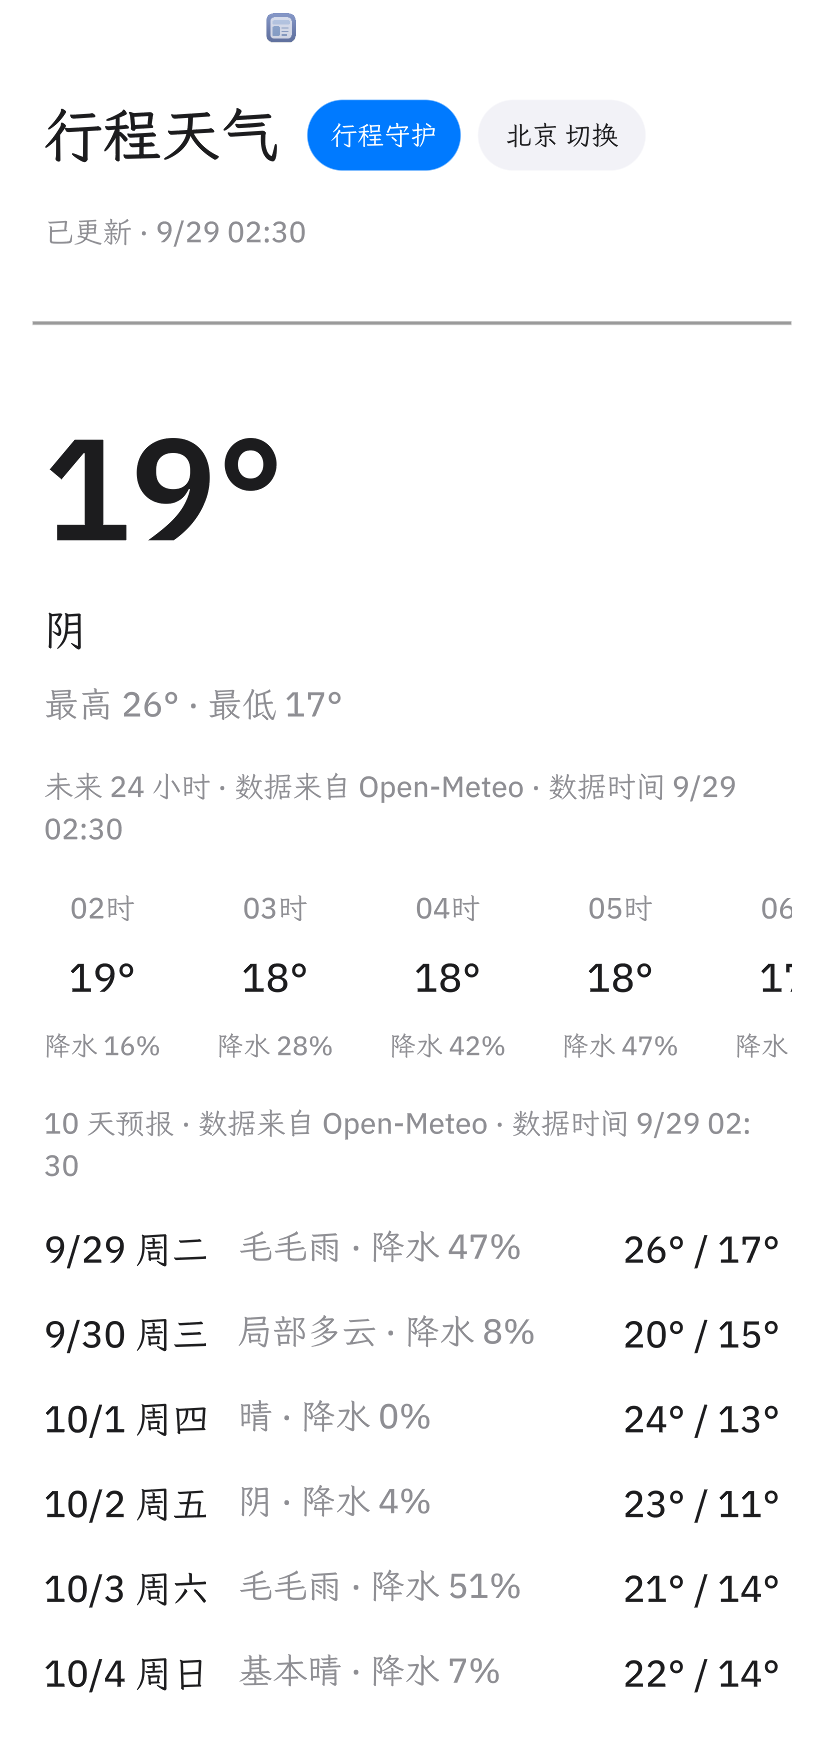
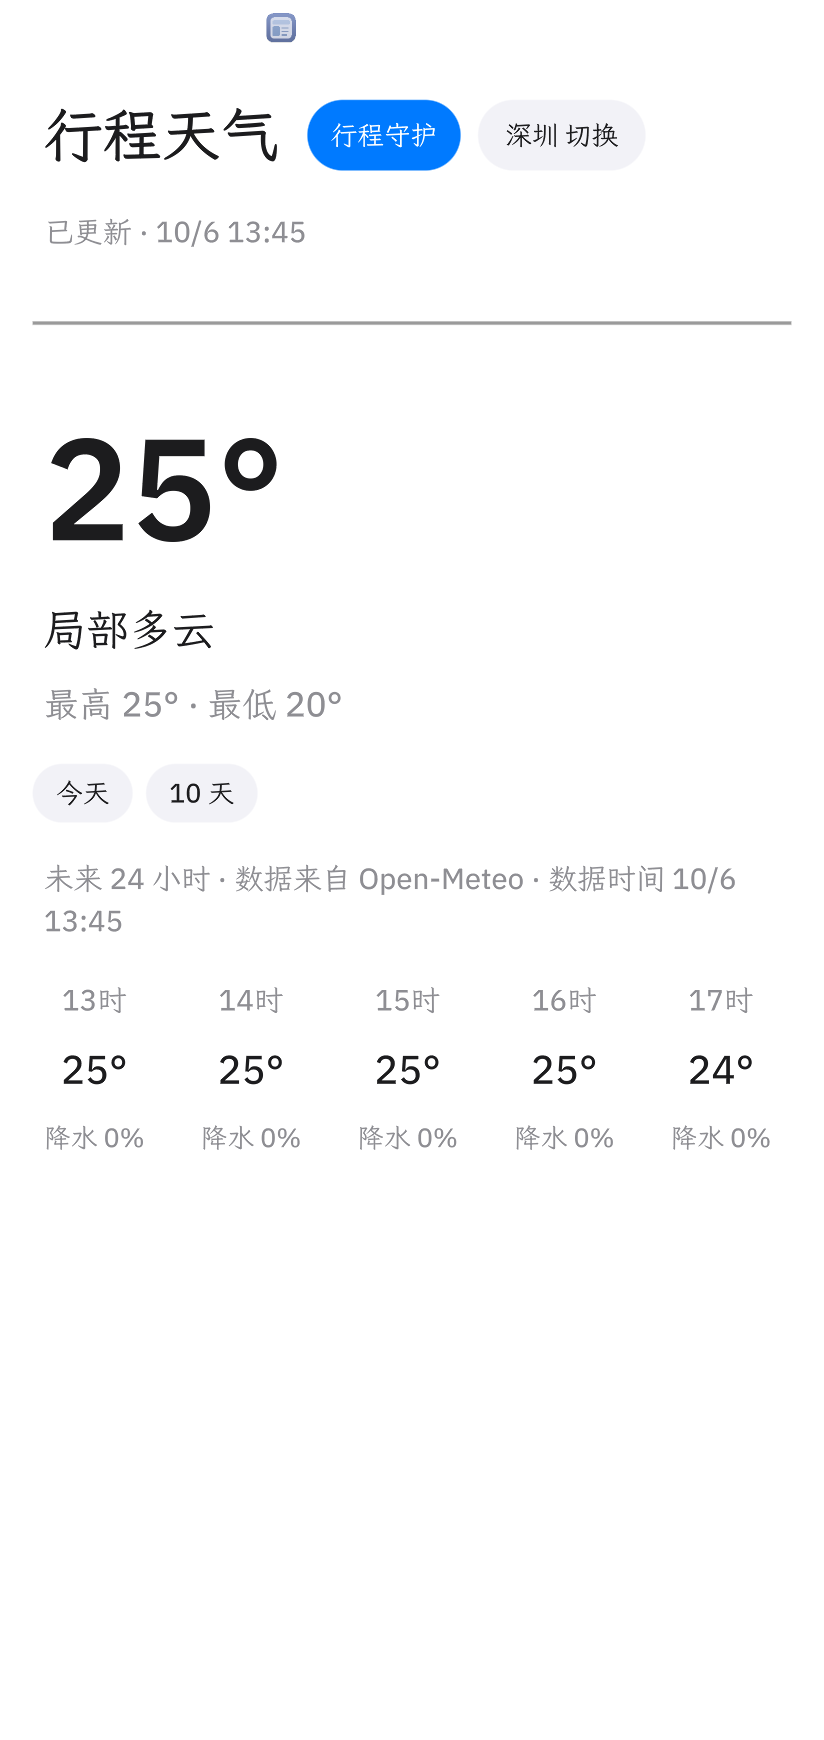
Prepare App Hub submission: current screenshots, publisher fields, PRIVACY.md, signed bundle
- Screenshots retaken on the current four-step guard page (home, same-name
  candidates, parse card, verified result, missing-field state).
- listing: publisher ZhangHanDong, support = repository issues, privacy
  policy = PRIVACY.md.
- Manifest stamped and signed by publisher zhanghandong; hub check
  --publisher-key passes (App Hub f801b58).

diff --git a/PRIVACY.md b/PRIVACY.md
@@ -1,0 +1,35 @@
+# 行程天气(trip-guardian)隐私说明
+
+更新日期:2026-10-06
+
+## 我们不收集什么
+
+行程天气没有自己的服务器,不收集、不上传、不出售任何个人数据,不含广告或统计 SDK,不申请定位、相机、麦克风、通讯录、照片等权限。
+
+## 数据存在哪里
+
+你保存的城市列表(`cities.json`)、行程簿(`plans.json`)和执行台账(`ledger.json`)只写在宿主分配给本应用的本机存储里,不会同步到其他设备或其他宿主。卸载应用或清除宿主数据即可删除。
+
+## 会发出的网络请求
+
+| 发往 | 内容 | 用途 |
+|---|---|---|
+| `api.open-meteo.com` | 城市或地点的经纬度、日期范围 | 获取天气预报 |
+| `geocoding-api.open-meteo.com` | 你输入的城市名或地点名 | 搜索城市、定位行程地点 |
+
+这两个服务由 [Open-Meteo](https://open-meteo.com/) 提供,适用其[服务条款与隐私政策](https://open-meteo.com/en/terms)。应用只能访问这两个域名(由宿主按 manifest 强制)。
+
+## 助手(agent)
+
+当宿主提供并且你允许了助手服务(`octos.session.open`、`octos.turn.start`)时,应用会把以下内容发给宿主的助手:
+
+- 你在「行程守护」里输入的那句话,以及今天的日期;
+- 评估时取到的天气数字(降水概率、降水量、体感温度、风速、紫外线)和数据时间。
+
+助手由宿主运行,使用你在宿主「AI providers」里自行配置的模型服务;应用接触不到你的 API 密钥,也不决定使用哪家模型。这些内容会按你所配置的模型服务商的政策处理。第一次使用时宿主会询问是否允许;不允许时,应用完全用本地规则工作,不发送上述内容。
+
+台账里只记录助手调用的结论和原因,不保存助手回复的全文。
+
+## 联系
+
+问题与建议:<https://github.com/ZhangHanDong/weather-app/issues>

diff --git a/README.md b/README.md
@@ -84,16 +84,17 @@ Rinx 侧栏「Mini apps」→「导入应用」→ 路径填 `bundle/` → Revie
 
 ## 截图
 
-| 首页 | 同名地点候选 | 风险与方案 | 核验 | agent 回复被拒后回退 |
+| 首页 | 同名地点候选 | 解析卡 | 核验通过 | 缺项提示(失败状态) |
 |---|---|---|---|---|
-| ![](bundle/screenshots/01-home.png) | ![](bundle/screenshots/02-chaoyang.png) | ![](bundle/screenshots/03-risk-options.png) | ![](bundle/screenshots/04-verify.png) | ![](bundle/screenshots/05-agent-rejected.png) |
+| ![](bundle/screenshots/01-home.png) | ![](bundle/screenshots/02-cities.png) | ![](bundle/screenshots/03-parse.png) | ![](bundle/screenshots/04-verify.png) | ![](bundle/screenshots/05-missing.png) |
 
 ## 已知限制
 
 - 模型服务商限流时,agent 那一步可能要 40 秒以上;期间先显示规则结果。
 - 两个宿主之间不同步数据。
-- 包尚未用发布者密钥签名,也未提交到 App Hub 公共目录。
+- 四步页签里,当前选中的那一步标签显示得很淡(Makepad 按钮在这个版本里的渲染问题,不影响操作)。
+- 已用发布者密钥签名,App Hub 公共目录的收录以审核结果为准。
 
 ## 作者与支持
 
-ZhangHanDong · 问题与建议请在本仓库提 [Issue](https://github.com/ZhangHanDong/weather-app/issues)。
+ZhangHanDong · 问题与建议请在本仓库提 [Issue](https://github.com/ZhangHanDong/weather-app/issues)。隐私说明见 [PRIVACY.md](PRIVACY.md)。
